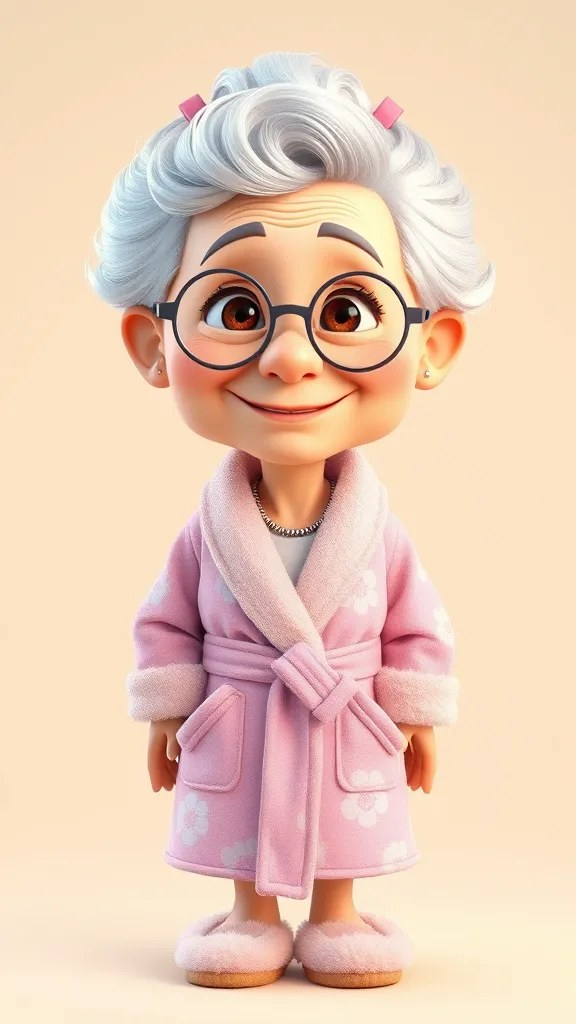
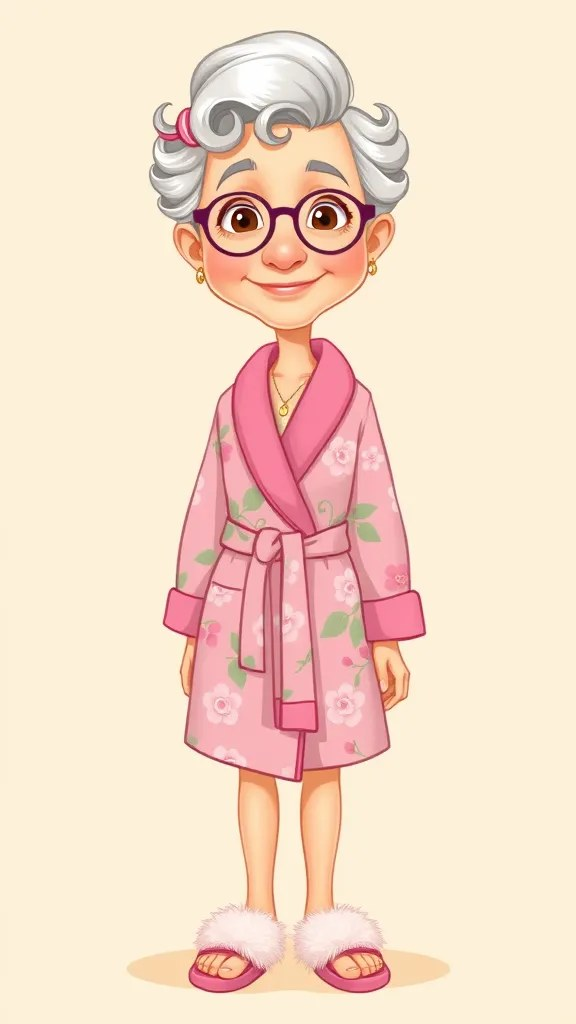
kochen v2: slim 2D cast, two wide shots per sentence (start and result), kitchen music bed under the voice, provisional Florian voice
Claude-Session: https://claude.ai/code/session_01Hrnkq6pdAQtyMQ35NVi5xL

diff --git a/ai-cast/shots.py b/ai-cast/shots.py
@@ -22,7 +22,7 @@ DEFAULT_STYLE = ("High-end 3D animated feature film still, stylised human, warm 
                  "of the frame and calm background above them, clean image with no text, no letters and no watermark")
 # owner, 2026-10-05: the characters were zoomed in and the picture was not happy: a wide shot, the whole body, the place around, bright
 WIDE = ("WIDE medium shot, camera far away: the whole body is visible from head to shoes with free space around the character, "
-        "the place clearly visible in the background, bright cheerful colours, soft sunny light, cute Pixar-style 3D animated film still, "
+        "the place clearly visible in the background, bright cheerful colours, soft sunny light, in exactly the same illustration style as the reference picture, "
         "vertical 9:16, no close-up, no text, no watermark.")
 KONTEXT = ["mcp-tools/FLUX.1-Kontext-Dev", "black-forest-labs/FLUX.1-Kontext-Dev"]
 
